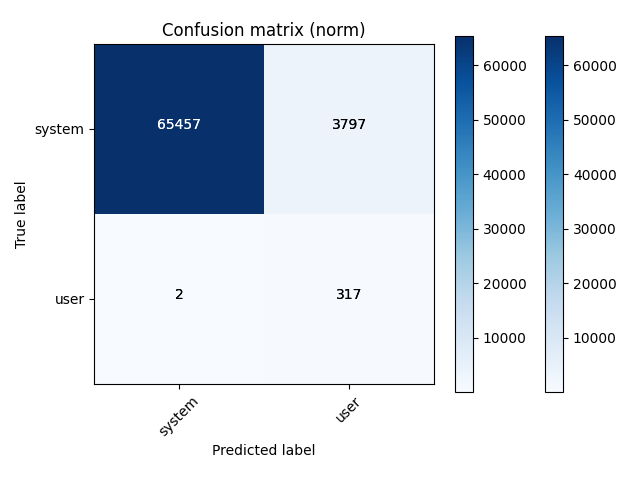
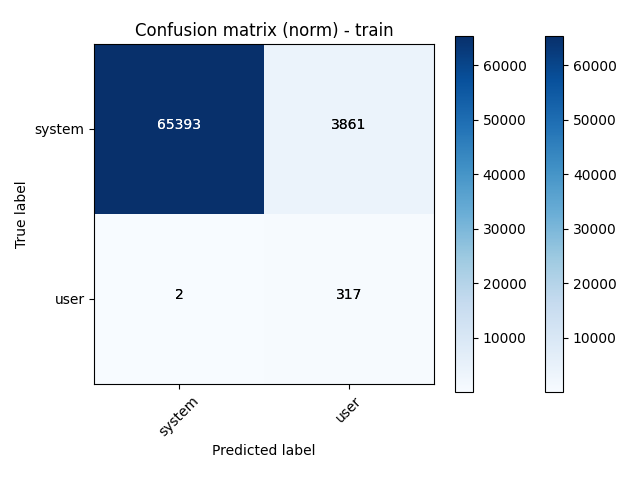
Adding plots.

Changed region(s): [[0.2188, 0.0312, 0.625, 0.0938], [0.5, 0.25, 0.5938, 0.2812], [0.25, 0.25, 0.3125, 0.2812]]

diff --git a/PMLFinal.py b/PMLFinal.py
@@ -5,8 +5,10 @@ from sklearn.model_selection import cross_val_score
 from sklearn.preprocessing import LabelEncoder
 from sklearn.model_selection import StratifiedKFold, train_test_split
 from sklearn.preprocessing import StandardScaler
-from sklearn.metrics import balanced_accuracy_score, classification_report, confusion_matrix
-from tensorflow.python.keras.models import load_model
+from sklearn.metrics import balanced_accuracy_score, classification_report, confusion_matrix, roc_curve, RocCurveDisplay, precision_recall_curve
+from sklearn import metrics
+from tqdm import tqdm
+from tqdm.keras import TqdmCallback
 from sklearn.pipeline import Pipeline
 from IPython.display import SVG
 from tensorflow.keras.optimizers import RMSprop
@@ -21,6 +23,7 @@ import numpy as np
 import itertools
 
 
+
 # Initial config:
 log_dir = "logs/" + datetime.datetime.now().strftime("%Y%m%d-%H%M%S")
 
@@ -33,18 +36,18 @@ def tune_final(num_training_iterations):
     tuner = tune.Tuner(
         tune.with_resources(train_mnist, resources={"cpu": 2, "gpu": 0}),
         tune_config=tune.TuneConfig(
-            metric="mean_accuracy",
+            metric="balanced_accuracy",
             mode="max",
             scheduler=sched,
             num_samples=10,
         ),
         run_config=air.RunConfig(
             name="exp",
-            stop={"mean_accuracy": 0.99, "training_iteration": num_training_iterations},
+            stop={"balanced_accuracy": 0.99, "training_iteration": num_training_iterations},
         ),
         param_space={
             "threads": 2,
-            "lr": tune.uniform(0.001, 0.1),
+            "lr": tune.uniform(0.0001, 0.01),
             "momentum": tune.uniform(0.1, 0.9),
             "hidden": tune.randint(32, 512),
         },
@@ -160,6 +163,7 @@ def load_dataset():
     n_class_1 = df1_train[df1_train['tag'] == 1].shape[0]
     n_class_0 = df1_train.shape[0] - n_class_1
     n_samples = df1_train.shape[0]
+    
     class_weight = {
         0: n_samples / (2 * n_class_0),
         1: n_samples / (2 * n_class_1)
@@ -172,6 +176,8 @@ def final():
 
     # load data
     df1_train, df2_test, X_train, y_train, X_valid, y_valid, X_test, y_test, class_weight = load_dataset()
+    
+   
 
     TRAIN = False
     if TRAIN:
@@ -213,6 +219,7 @@ def final():
         y_pred_train = model.predict(X_train)
         y_pred_val= model.predict(X_valid)
         
+        
         # using threshold 0.5
         y_pred_train[y_pred_train > 0.5] = 1
         y_pred_train[y_pred_train < 0.5] = 0
@@ -222,50 +229,150 @@ def final():
 
         scores = model.evaluate(X_train, y_train, verbose=0)
         bal_acc_train = balanced_accuracy_score(y_train, y_pred_train)
+
         print('Accuracy on training data: {}%, {}(balanaced) \n Error on training data: {}'.format(scores[1], bal_acc_train, 1 - scores[1]))   
         print('\n')  
 
         #cross val score
-        # pred = cross_val_score(models[key], X, y, cv=5)
-        #mean_cv_accuracy = np.mean(pred)
-        #out_accuracy_str += key + " : " + str(mean_cv_accuracy) + "\n"    
+        # pred = cross_val_score(model, X_train, y_train, cv=5)
+        # mean_cv_accuracy = np.mean(pred)
+        # print("Mean accuracy CV : " + str(mean_cv_accuracy) + "\n")    
 
         print(classification_report(y_train, y_pred_train, target_names=class_names))
 
         model_CM = confusion_matrix(y_pred=y_pred_train, y_true=y_train)                                                            
 
         plot_confusion_matrix(model_CM, classes=class_names, 
-                            title='Confusion matrix, without normalization')
+                            title='Confusion matrix, without normalization - train')
         plt.savefig('pml_figures/Confusion matrix, without normalization')
 
-        plot_confusion_matrix(model_CM, classes=class_names, title='Confusion matrix (norm)')
+        plot_confusion_matrix(model_CM, classes=class_names, title='Confusion matrix (norm) - train')
         plt.savefig('pml_figures/Confusion matrix (norm)')
 
+        #find_perf_precision(model, X_train, y_train, y_pred_train)
+        RocCurveDisplay.from_predictions(y_train, model.predict(X_train), name="ROC Training")
+        plt.savefig("pml_figures/roc_curve_trainin.png")
+
+        precision_recall_threshold(model, X_train, y_train)
 
         scores2 = model.evaluate(X_valid, y_valid, verbose=0)
         bal_acc_valid = balanced_accuracy_score(y_valid, y_pred_val)
         print('Accuracy on validate data: {}%, {}(balanaced) \n Error on validate data: {}'.format(scores2[1], bal_acc_valid, 1 - scores2[1])) 
         print('\n')  
         
+        print(classification_report(y_valid, y_pred_val, target_names=class_names))
+
+        model_CM = confusion_matrix(y_pred=y_pred_val, y_true=y_valid)                                                            
+
+        plot_confusion_matrix(model_CM, classes=class_names, 
+                            title='Confusion matrix, without normalization - val')
+        plt.savefig('pml_figures/Validation_Confusion_matrix_no_norm')
+
+        plot_confusion_matrix(model_CM, classes=class_names, title='Confusion matrix (norm) - val')
+        plt.savefig('pml_figures/Validation_Confusion_matrix_norm')
+
+
     TEST_WITH_BEST_MODEL = False
     if TEST_WITH_BEST_MODEL:
         print('Testing best model:')
+        class_names = ['system', 'user']
 
         # Test the best model
         best_model = model
         
+        y_pred_test= model.predict(X_test)
+
+        # using threshold 0.5
+        y_pred_test[y_pred_test > 0.5] = 1
+        y_pred_test[y_pred_test < 0.5] = 0
+
         # print prarms:
-        for parameter in best_model.get_params():
-            print(parameter, ': \t', best_model.get_params()[parameter])
+        # for parameter in best_model.get_params():
+        #     print(parameter, ': \t', best_model.get_params()[parameter])
 
-        # check performance on new data...
-        #util.visualize_model(best_model, 'Logistic_Regression', X_test, y_test )
 
-        #util.show_confusion_matrix(df1_train_models, X_test, y_test)
+        scores3 = model.evaluate(X_test, y_test, verbose=0)
+        bal_acc_test = balanced_accuracy_score(y_test, y_pred_test)
+        print('Accuracy on Test data: {}%, {}(balanaced) \n Error on Test data: {}'.format(scores3[1], bal_acc_test, 1 - scores3[1])) 
+        print('\n')  
+        
+        print(classification_report(y_test, y_pred_test, target_names=class_names))
 
-        #util.show_ROC_plots({"Logistic_Regression": best_model}, X_test, y_test)
+        model_CM = confusion_matrix(y_pred=y_pred_test, y_true=y_test)                                                            
 
-        #util.precision_recall_threshold(best_model, X_test,y_test)
+        plot_confusion_matrix(model_CM, classes=class_names, 
+                            title='Confusion matrix, without normalization - Test')
+        plt.savefig('pml_figures/Test_Confusion_matrix_no_norm')
+
+        plot_confusion_matrix(model_CM, classes=class_names, title='Confusion matrix (norm) - Test')
+        plt.savefig('pml_figures/Test_Confusion_matrix_norm')
+
+
+def find_perf_precision(model, X_train, y_train, y_pred_train):
+
+    # predict probabilities
+    yhat = y_pred_train
+
+    # get false pos rate, true pos rate and thresholds
+    fpr, tpr, thresholds = roc_curve(y_train, yhat)
+
+    #obtain prediction probs on test set using the model fit previously on the non-test data
+    preds_test = model.predict(X_train)
+
+    # place holder
+    threshold_perfect_precision = 0
+    threshold_1 = -1
+
+    #classify the prediction probabilities
+    for idx, thld in enumerate(thresholds):
+        y_hat = (preds_test>=thld)*1.0
+        predPos = y_hat==1 
+        
+        truePos = np.zeros_like(y_hat)
+        y_train1 = y_train==1
+        for idx in tqdm(range(truePos.shape[1] // 1000), desc="Predicting"):
+            slicer = slice(idx * 1000, (idx + 1) * 1000)
+            cur_chunk_pred = predPos[slicer]
+            cur_chunk_ytrain = y_train1[slicer]
+            truePos[slicer] = np.logical_and(cur_chunk_pred,cur_chunk_ytrain)
+            
+        
+        predPos1s = predPos*1.0
+        if sum(predPos1s)[0] > 0:
+            print(sum(predPos1s)[0])
+            prec = sum(truePos*1.0)/sum()
+            if prec[0] == 1:
+                print(f'Found a perfect precision threshold!-> {thld} at idx {idx}')
+                threshold_1 = thld
+        
+            
+   
+
+    print("Found  threshold of ", threshold_1 , " for precision 1.")
+
+def precision_recall_threshold(model, X, y):
+    test_x = X
+    test_y = y
+
+    pred_y=model.predict(test_x)
+    probs_y=pred_y
+
+    # using threshold 0.5
+    pred_y[pred_y > 0.5] = 1
+    pred_y[pred_y < 0.5] = 0
+
+    precision, recall, thresholds = precision_recall_curve(test_y, probs_y)
+    #retrieve probability of being 1(in second column of probs_y)
+    pr_auc = metrics.auc(recall, precision)
+
+    plt.title("Precision-Recall vs Threshold Chart")
+    plt.plot(thresholds, precision[: -1], "b--", label="Precision")
+    plt.plot(thresholds, recall[: -1], "r--", label="Recall")
+    plt.ylabel("Precision, Recall")
+    plt.xlabel("Threshold")
+    plt.legend(loc="upper left")
+    plt.ylim([0,1])
+    plt.savefig("pml_figures/precision_recall_curve.png")
 
 
 def plot_confusion_matrix(cm, classes, normalize=False, title='Confusion matrix', cmap=plt.cm.Blues):

diff --git a/SMLFinalPreprocessor.py b/SMLFinalPreprocessor.py
@@ -586,6 +586,7 @@ def show_ROC_plots(models, xs, ys):
     plt.title("Receiver Operating Characteristic \n User trace classification")
     # print(str(df_names) + "\n Receiver Operating Characteristic")
 
+    #plt.savefig('pml_figures/roc_curve.png')
     # Display plot
     plt.show()
 
@@ -1039,6 +1040,7 @@ def precision_recall_threshold(model, X, y):
     plt.xlabel("Threshold")
     plt.legend(loc="upper left")
     plt.ylim([0,1])
+    #plt.savefig("pml_figures/precision_recall_curve.png")
     plt.show()
 
 def custom_predict(log_model, X, threshold):
